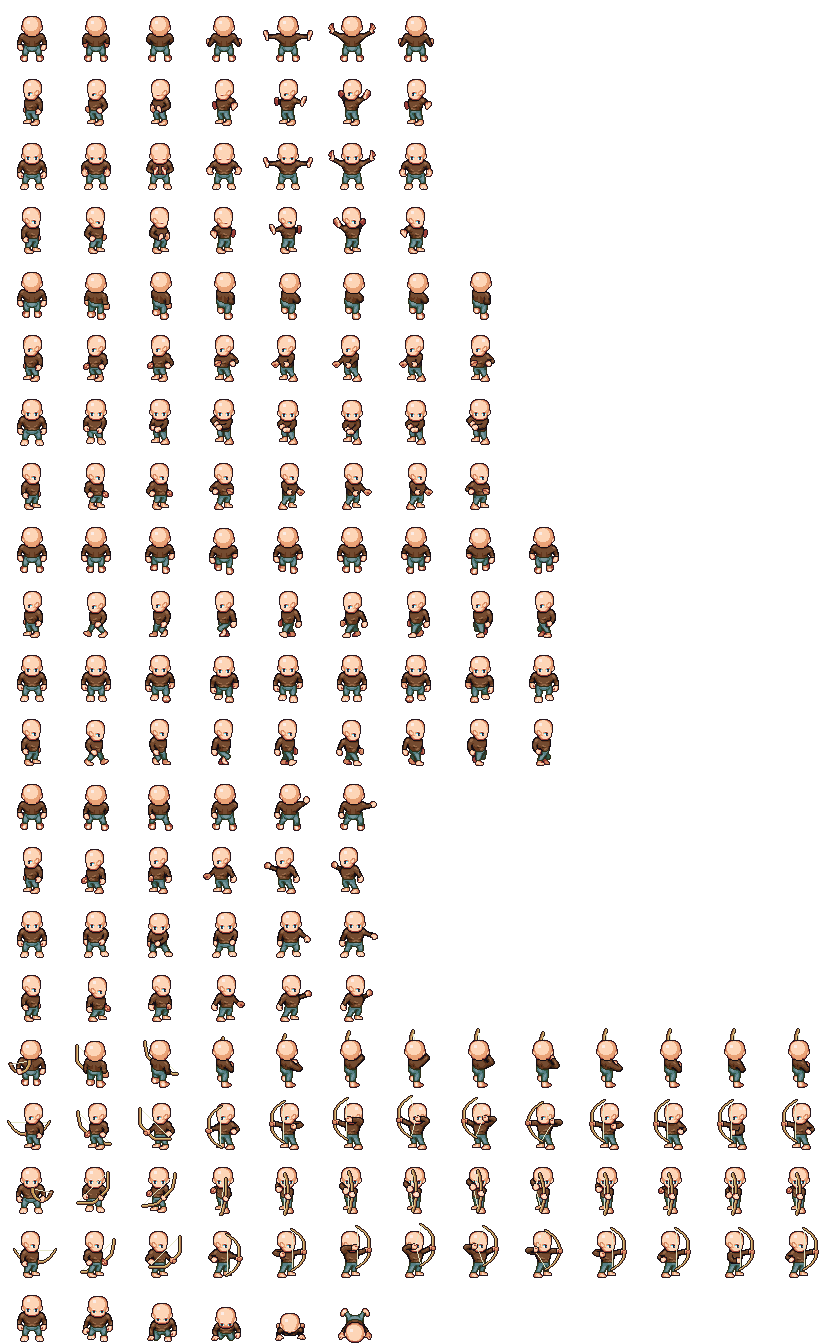
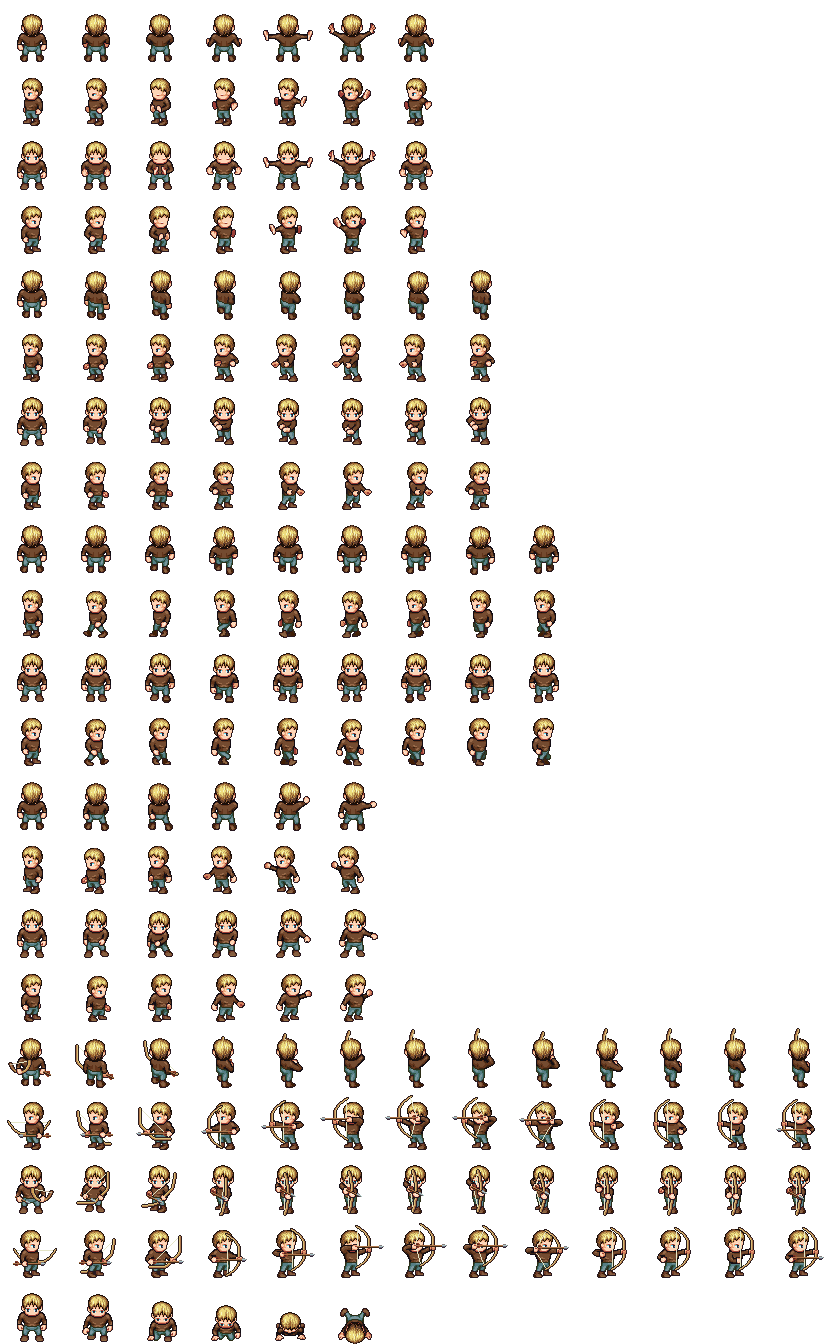
Updated archer sprite, better arrow physics

diff --git a/backend/archers/world.py b/backend/archers/world.py
@@ -110,6 +110,7 @@ class WorldObject(Base):
 	def attach_collision_data(self, fixture):
 		fixture.filterData.categoryBits = type(self).collision_category
 		fixture.filterData.maskBits = type(self).collision_mask
+		fixture.filterData.groupIndex = self.id*-1
 
 	def create_static_polygon_body(self, x, y, vertices):
 		self.physics = self.world.physics.CreateStaticBody(
@@ -118,7 +119,7 @@ class WorldObject(Base):
 					vertices=vertices,
 					# categoryBits=type(self).collision_category,
 					# maskBits=type(self).collision_mask,
-					groupIndex=1
+					# groupIndex=self.id*-1
 				)
 		)
 		self.physics.fixtures[0].userData = self
@@ -136,7 +137,7 @@ class WorldObject(Base):
 					box=(w*0.5, h*0.5),
 					# categoryBits=type(self).collision_category,
 					# maskBits=type(self).collision_mask,
-					groupIndex=1
+					# groupIndex=self.id*-1
 				),
 		)
 
@@ -153,9 +154,9 @@ class WorldObject(Base):
 		kwargs['box'] = kwargs.get('box', (0.5*w, 0.5*h))
 		kwargs['density'] = kwargs.get('density', 1)
 		kwargs['friction'] = kwargs.get('friction', 0.3)
-		kwargs['categoryBits'] = type(self).collision_category
-		kwargs['maskBits'] = type(self).collision_mask
-		kwargs['groupIndex'] = 1
+		# kwargs['categoryBits'] = type(self).collision_category
+		# kwargs['maskBits'] = type(self).collision_mask
+		# kwargs['groupIndex'] = 1
 
 		self.physics.CreatePolygonFixture(**kwargs)
 
@@ -356,9 +357,10 @@ class World(EventsMixins):
 	def build_frame(self):
 		pass
 
-	def step(self):
+	def networking_step(self):
 		self.trigger('step', self)
 
+	def processing_step(self):
 		while self.objects_to_be_destroyed:
 			killme = self.objects_to_be_destroyed.pop()
 			if(hasattr(killme, 'kill') and callable(getattr(killme, 'kill'))):
@@ -367,4 +369,4 @@ class World(EventsMixins):
 				killme.destroy()
 				
 
-		self.physics.Step(settings.TIME_STEP, 10, 10)
+		self.physics.Step(settings.PROCESSING_STEP, 10, 10)

diff --git a/backend/archers/archer.py b/backend/archers/archer.py
@@ -87,7 +87,7 @@ class Archer(WorldObject, ReactorMixin, NetworkMixin):
 		self.direction = direction
 		if(not hasattr(self, 'delayed_attack') or not self.delayed_attack.active()):
 			self.delayed_attack = self.reactor.callLater(
-				0.5*self.attack_speed,
+				0.75*self.attack_speed,
 				self.commit_attack,
 				direction
 			)
@@ -124,12 +124,12 @@ class Arrow(SelfDestructable, NetworkMixin):
 		super(Arrow, self).__init__(
 			owner.world,
 			type="arrow",
-			lifetime=1.5,
+			lifetime=1.0,
 			**kwargs)
 
 		target_position = b2Vec2(
-			direction.x*(owner.width+self.width),
-			direction.y*(owner.height+self.height)
+			direction.x*(owner.width-self.width),
+			direction.y*(owner.height-self.height)
 		)
 		target_position = owner.physics.position + target_position
 
@@ -138,11 +138,12 @@ class Arrow(SelfDestructable, NetworkMixin):
 			target_position.y,
 			self.width, self.height, friction=0.9
 		)
+
 		self.physics.fixedRotation = True
 		self.direction = direction
 		self.physics.angle = vec2rad(direction)
 
-		speed_vector = b2Vec2(1,0)*self.speed
+		speed_vector = b2Vec2(1,0)*self.speed*1.5
 		self.physics.ApplyLinearImpulse(
 			impulse=self.physics.GetWorldVector(speed_vector),
 			point=self.physics.position,
@@ -150,6 +151,10 @@ class Arrow(SelfDestructable, NetworkMixin):
 		)
 		self.physics.bullet = True
 		# import ipdb; ipdb.set_trace()
+
+	def attach_collision_data(self, fixture):
+		super(Arrow, self).attach_collision_data(fixture)
+		fixture.filterData.groupIndex = self.owner.id*-1
 
 	def destroy(self, source="dupa"):
 		# self.owner.arrows_shot.remove(self)

diff --git a/backend/game.py b/backend/game.py
@@ -48,7 +48,8 @@ class Archers():
 
 	def init_world(self):
 		self.world = World('../resources/map.tmx')
-		task.LoopingCall(self.world.step).start(settings.TIME_STEP)
+		task.LoopingCall(self.world.networking_step).start(settings.NETWORKING_STEP)
+		task.LoopingCall(self.world.processing_step).start(settings.PROCESSING_STEP)
 		task.clock = self.reactor
 
 	def init_debug_renderer(self):
@@ -60,7 +61,7 @@ class Archers():
 		"""
 		from archers.debug import Renderer
 		self.renderer = Renderer(self.world)
-		task.LoopingCall(self.renderer.render_frame).start(settings.TIME_STEP)
+		task.LoopingCall(self.renderer.render_frame).start(settings.PROCESSING_STEP)
 
 	def start(self, reactor=reactor):
 		self.reactor = reactor

diff --git a/backend/archers/collisions.py b/backend/archers/collisions.py
@@ -40,7 +40,8 @@ class Collisions(b2ContactListener):
 		pair = self.is_pair(a, b, 'Arrow', 'Archer')
 		if(pair):
 			arrow, archer = pair
-			self.world.kill(arrow)
+			# import ipdb; ipdb.set_trace()
+			# self.world.kill(arrow)
 			self.world.kill(archer)
 			return
 

diff --git a/backend/settings.py b/backend/settings.py
@@ -1,6 +1,8 @@
 
 DOMAIN = 'http://localhost'
 DEBUG = True
-# TIME_STEP = 1.0/60
-TIME_STEP = 1.0/20
+
+NETWORKING_STEP = 1.0/30
+PROCESSING_STEP = 1.0/60
+
 PPM = 32.0
